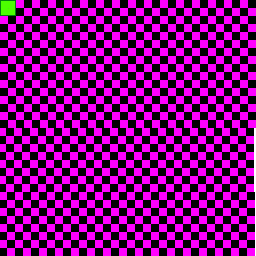
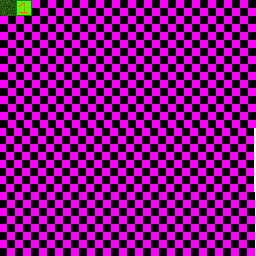
Texture Atlas now works correctly with mipmapping

Changed region(s): [[0.0, 0.0, 0.125, 0.0625]]

diff --git a/DVZ/TEX.cpp b/DVZ/TEX.cpp
@@ -158,7 +158,8 @@ TEX TEX::Builder::buildTexture() {
 TEX TEX::Builder::buildTextureAtlasArray(int rows, int cols) {
 	int channels;
 	unsigned char *image = stbi_load(this->filename.c_str(), &this->width, &this->height, &channels, 3);
-
+	printf("CHANNLES: %d\n\n\n", channels);
+	channels = 3;
 	size_t size = this->width * this->height * channels * sizeof(unsigned char);
 	unsigned char *imageArray = (unsigned char *)malloc(size);
 
@@ -173,7 +174,7 @@ TEX TEX::Builder::buildTextureAtlasArray(int rows, int cols) {
 			int v = spritePixel / sprite_width;
 
 
-			int offset = (c + r * cols) * sprite_width;
+			int offset = (c * sprite_width + r * sprite_width * sprite_height * cols);
 			int index = (offset + (u + v * width))*channels;
 
 			for (int i = 0; i < channels; i++) {
@@ -186,20 +187,39 @@ TEX TEX::Builder::buildTextureAtlasArray(int rows, int cols) {
 	stbi_image_free(image);
 
 	int num_sprites = rows * cols;
-	int mipmapLevelCount = 1;
+	int mipmapLevelCount = 4;
 
 	this->textureTarget = GL_TEXTURE_2D_ARRAY;
 	glGenTextures(1, &this->texID);
 	glBindTexture(this->textureTarget, this->texID);
-	glTexStorage3D(this->textureTarget, mipmapLevelCount, GL_RGB8, sprite_width, sprite_height, num_sprites);
-	glTexSubImage3D(this->textureTarget, 0, 0, 0, 0, sprite_width, sprite_height, num_sprites, GL_RGB, GL_UNSIGNED_BYTE, imageArray);
+	glTexStorage3D(this->textureTarget, mipmapLevelCount, channels == 3 ? GL_RGB8 : GL_RGBA8, sprite_width, sprite_height, num_sprites);
+	glTexSubImage3D(this->textureTarget, 0, 0, 0, 0, sprite_width, sprite_height, num_sprites, channels == 3 ? GL_RGB : GL_RGBA, GL_UNSIGNED_BYTE, imageArray);
 
 	glTexParameteri(this->textureTarget, GL_TEXTURE_WRAP_S, this->wrapS);
 	glTexParameteri(this->textureTarget, GL_TEXTURE_WRAP_T, this->wrapT);
 	glTexParameterfv(this->textureTarget, GL_TEXTURE_BORDER_COLOR, this->color);
 	
-	glTexParameteri(this->textureTarget, GL_TEXTURE_MIN_FILTER, this->filter);
-	glTexParameteri(this->textureTarget, GL_TEXTURE_MAG_FILTER, this->filter);
+
+
+	GLenum f;
+
+	if (this->useMipMap) {
+		glGenerateMipmap(this->textureTarget);
+		unsigned char bit1 = this->mipmap == GL_LINEAR;
+		unsigned char bit2 = this->filter == GL_LINEAR;
+		switch ((bit2 << 1) | bit1) {
+		case 0x0: f = GL_NEAREST_MIPMAP_NEAREST; break;
+		case 0x1: f = GL_LINEAR_MIPMAP_NEAREST; break;
+		case 0x2: f = GL_NEAREST_MIPMAP_LINEAR; break;
+		case 0x3: f = GL_LINEAR_MIPMAP_LINEAR; break;
+		}
+	}
+	else {
+		f = this->filter;
+	}
+
+	glTexParameteri(this->textureTarget, GL_TEXTURE_MIN_FILTER, f);
+	glTexParameteri(this->textureTarget, GL_TEXTURE_MAG_FILTER, filter);
 
 	glBindTexture(this->textureTarget, 0);
 

diff --git a/DVZ/Block.cpp b/DVZ/Block.cpp
@@ -86,52 +86,51 @@ BlockTexCoords::BlockTexCoords(){
 }
 
 BlockTexCoords::BlockTexCoords(uint8 r, uint8 c, uint8 numRows, uint8 numCols) {
-	constexpr UVType MAX = std::numeric_limits<UVType>::max();
-	//constexpr UVType MAX = 1;
-	
-	const UVType SPRITE_WIDTH = MAX / numRows;
-	const UVType SPRITE_HEIGHT = MAX / numCols;	
-	
-	const UVType epsilon = 0;
+	//constexpr UVType MAX = std::numeric_limits<UVType>::max();
+	////constexpr UVType MAX = 1;
+	//
+	//const UVType SPRITE_WIDTH = MAX / numRows;
+	//const UVType SPRITE_HEIGHT = MAX / numCols;	
+	//
+	//const UVType epsilon = 10;
 
-	UVType u = (UVType)(((float)r / numRows) * MAX);
-	UVType v = (UVType)(((float)c / numCols) * MAX);
-	UV uv(u+epsilon, v+epsilon);
+	//UVType u = (UVType)(((float)r / numRows) * MAX);
+	//UVType v = (UVType)(((float)c / numCols) * MAX);
+	//UV uv(u+epsilon, v+epsilon);
 
 	for (int i = 0; i < 6; i++) {
-		this->texCoords[i].spritePos = uv;
-		this->texCoords[i].width = SPRITE_WIDTH - epsilon * 2;
-		this->texCoords[i].height = SPRITE_HEIGHT - epsilon * 2;
+		this->texCoords[i].row = r;
+		this->texCoords[i].col = c;
+		
 	}
 }
 
-SpriteTexCoords::SpriteTexCoords(UV spritePos, UVType width, UVType height) {
-	this->spritePos = spritePos;
-	this->width = width;
-	this->height = height;
+SpriteTexCoords::SpriteTexCoords(UVType row, UVType col) {
+	this->row = row;
+	this->col = col;
 }
 
 UV SpriteTexCoords::uv0() {
-	return spritePos;
+	return UV(0, 0, row, col);
 }
 
 UV SpriteTexCoords::uv1() {
-	UV out = spritePos;
-	out.x += width;
-	return out;
+	//UV out = spritePos;
+	//out.x += width;
+	return UV(MAX, 0, row, col);
 }
 
 UV SpriteTexCoords::uv2() {
-	UV out = spritePos;
-	out.y += height;
-	return out;
+	//UV out = spritePos;
+	//out.y += height;
+	return UV(0, MAX, row, col);
 }
 
 UV SpriteTexCoords::uv3() {
-	UV out = spritePos;
-	out.x += width;
-	out.y += height;
-	return out;
+	//UV out = spritePos;
+	//out.x += width;
+	//out.y += height;
+	return UV(MAX, MAX, row, col);;
 }
 
 BlockManager* BlockManager::BLOCK_MANAGER_PTR = nullptr;

diff --git a/DVZ/ChunkGeometry.h b/DVZ/ChunkGeometry.h
@@ -10,7 +10,7 @@ private:
 	typedef Graphics::Attrib<POSITION_ATTRIB_LOCATION, glm::u8vec3> BlockPositionAttrib;
 	typedef Graphics::Attrib<NORMAL_ATTRIB_LOCATION, glm::i8vec3> BlockNormalAttrib;
 	typedef Graphics::Attrib<COLOR_ATTRIB_LOCATION, glm::u8vec3> BlockColorAttrib;
-	typedef Graphics::Attrib<BLOCK_TEXCOORD_ATTRIB_LOCATION, glm::u16vec2> BlockTexcoordAttrib;
+	typedef Graphics::Attrib<BLOCK_TEXCOORD_ATTRIB_LOCATION, glm::u8vec4> BlockTexcoordAttrib;
 	typedef std::tuple<BlockPositionAttrib, BlockNormalAttrib, BlockColorAttrib, BlockTexcoordAttrib> AttribTuple;
 
 	typedef Graphics::Geometry<BlockPositionAttrib, BlockNormalAttrib, BlockColorAttrib, BlockTexcoordAttrib> BlockGeometry;

diff --git a/DVZ/Block.h b/DVZ/Block.h
@@ -28,15 +28,18 @@ namespace Voxel {
 		OCCLUDE_TYPE_ALL
 	};
 
-	typedef uint16 UVType;
-	typedef glm::vec<2, UVType> UV;
+	typedef uint8 UVType;
+	typedef glm::vec<4, UVType> UV;
 
 	struct SpriteTexCoords {
-		UV spritePos;
-		UVType width, height;
+		//static constexpr UVType MAX = std::numeric_limits<UVType>::max();
+		static constexpr UVType MAX = 1;
+
+		UVType row;
+		UVType col;
 
 		SpriteTexCoords() {}
-		SpriteTexCoords(UV spritePos, UVType width, UVType height);
+		SpriteTexCoords(UVType row, UVType col);
 
 		/*2---3*/
 		/*|   |*/

diff --git a/DVZ/ChunkGeometry.cpp b/DVZ/ChunkGeometry.cpp
@@ -40,8 +40,7 @@ const ChunkGeometry::AttribTuple ChunkGeometry::ATTRIBS = std::make_tuple(
 		ChunkGeometry::BlockColorAttrib::AttribOption::Normalize
 	),
 	ChunkGeometry::BlockTexcoordAttrib(
-		ChunkGeometry::BlockTexcoordAttrib::DataType::UNSIGNED_SHORT,
-		ChunkGeometry::BlockTexcoordAttrib::Components::TWO,
-		ChunkGeometry::BlockTexcoordAttrib::AttribOption::Normalize
+		ChunkGeometry::BlockTexcoordAttrib::DataType::UNSIGNED_BYTE,
+		ChunkGeometry::BlockTexcoordAttrib::Components::FOUR
 	)
 );

diff --git a/DVZ/OpenGLRenderer.h b/DVZ/OpenGLRenderer.h
@@ -30,7 +30,7 @@ private:
 		.nearest()
 		.clampToEdge()
 		.borderColor(0, 1, 0, 0)
-		//.mipmapNearest()
+		.mipmapLinear()
 		.buildTextureAtlasArray(16, 16);
 
 	void renderChunks(Voxel::ChunkManager *manager, glm::vec3 camera_position, glm::mat4 vp);
